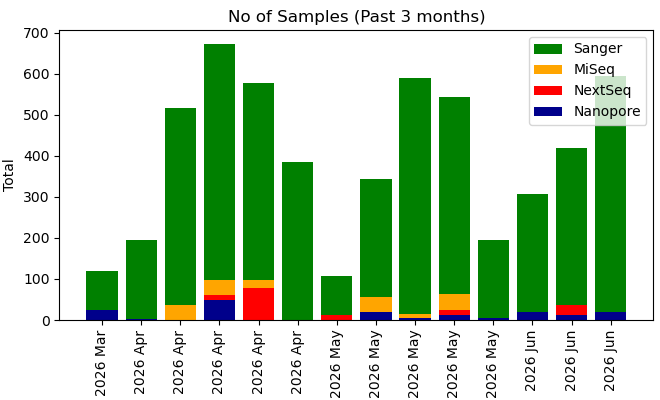
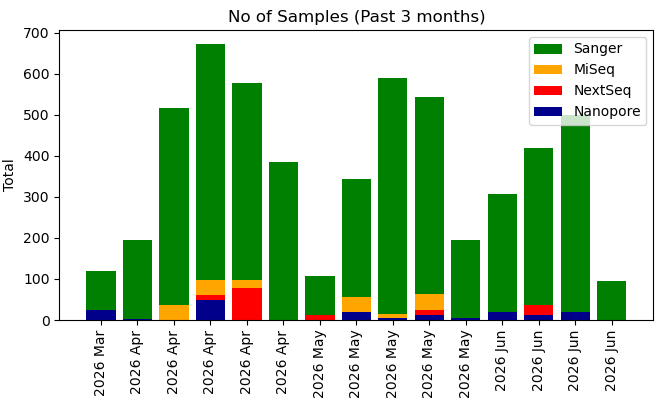
Your commit message here

Changed region(s): [[0.1212, 0.09, 0.9697, 1.0], [0.9091, 0.84, 0.9394, 0.99]]

diff --git a/krona/cgs.html b/krona/cgs.html
@@ -52,8 +52,8 @@ body {
   flex-direction: column;
 }
 </style>
-<H1>Genomics Facility Status: 07:00:11, 22/06/2026</H1>
-<marquee behavior="scroll" scrollamount="20" direction="left" bgcolor="lightgrey">ACATTAAATTTAACCTGACTATTCCACTGCAACAACTGAACGGACTGGAAACACTGGTCATAATCATGGTGGCGAATAAGTACGCGTTCTTGCAAATCACCAGAAGGCGGTTCCTGAATGAATGGGAAGCCTTCAAGAAGGTGATAAGCAGGAGAAACATACGAAGGCGCATAACGATACCACTGACCCTCAGCAATCTTAAACTTCTTAGACGAATCACCAGAACGGAAAACATCCTTCATAGAAATTTC</marquee>
+<H1>Genomics Facility Status: 07:00:13, 23/06/2026</H1>
+<marquee behavior="scroll" scrollamount="20" direction="left" bgcolor="lightgrey">AGAAAACCTACCGCGCTTCGCTTGGTCAACCCCTCAGCGGCAAAAATTAAAATTTTTACCGCTTCGGCGTTATAACCTCACACTCAATCTTTTATCACGAAGTCATGATTGAATCGCGAGTGGTCGGCAGATTGCGATAAACGGTCACATTAAATTTAACCTGACTATTCCACTGCAACAACTGAACGGACTGGAAACACTGGTCATAATCATGGTGGCGAATAAGTACGCGTTCTTGCAAATCACCAGA</marquee>
 <TABLE BORDER=0><TR><TD><TABLE class="styled-table"><H3>GigaBases Sequenced</H3>
-<TR><TD><b>Platform</b></TD><TD><b>Week</b></TD><TD><b>Month</b></TD><TD><b>Year</b></TD><TD><b>Total</b></TD></TR><TR><TD>Illumina MiSeq</TD><TD>0.0</TD><TD>0.0</TD><TD>341.6</TD><TD>567.8</TD></TR><TR><TD>Illumina NextSeq</TD><TD>0.0</TD><TD>143.68</TD><TD>3467.62</TD><TD>6797.43</TD></TR><TR><TD>Nanopore PromethION</TD><TD>342.47</TD><TD>1351.22</TD><TD>8907.77</TD><TD>13980.53</TD></TR><TR><TD>Sanger</TD><TD>0.0</TD><TD>0.0</TD><TD>0.02</TD><TD>0.05</TD></TR></TABLE></TD><TD><IMG SRC="fig1.png"><IMG SRC="fig2.png"></TD></TR><TR><TD><H3>No. Samples (No. Experiments)</H3>
-<TABLE class="styled-table"><TR><TD><b>Platform</b></TD><TD><b>Week</b></TD><TD><b>Month</b></TD><TD><b>Year</b></TD><TD><b>Total</b></TD></TR><TR><TD>Illumina MiSeq</TD><TD>0 (0)</TD><TD>0 (0)</TD><TD>1360 (69)</TD><TD>2514 (101)</TD></TR><TR><TD>Illumina NextSeq</TD><TD>0 (0)</TD><TD>24 (2)</TD><TD>1202 (56)</TD><TD>2222 (90)</TD></TR><TR><TD>Nanopore PromethION</TD><TD>20 (7)</TD><TD>66 (30)</TD><TD>639 (215)</TD><TD>1082 (380)</TD></TR><TR><TD>Sanger</TD><TD>576 (576)</TD><TD>1632 (1632)</TD><TD>21211 (21211)</TD><TD>47106 (47106)</TD></TR></TABLE></TD><TD><IMG SRC="fig4.png"></TD></TR></TABLE></HTML>
+<TR><TD><b>Platform</b></TD><TD><b>Week</b></TD><TD><b>Month</b></TD><TD><b>Year</b></TD><TD><b>Total</b></TD></TR><TR><TD>Illumina MiSeq</TD><TD>0.0</TD><TD>0.0</TD><TD>341.6</TD><TD>567.8</TD></TR><TR><TD>Illumina NextSeq</TD><TD>0.0</TD><TD>143.68</TD><TD>3467.62</TD><TD>6797.43</TD></TR><TR><TD>Nanopore PromethION</TD><TD>323.69</TD><TD>1351.22</TD><TD>8907.77</TD><TD>13980.53</TD></TR><TR><TD>Sanger</TD><TD>0.0</TD><TD>0.0</TD><TD>0.02</TD><TD>0.05</TD></TR></TABLE></TD><TD><IMG SRC="fig1.png"><IMG SRC="fig2.png"></TD></TR><TR><TD><H3>No. Samples (No. Experiments)</H3>
+<TABLE class="styled-table"><TR><TD><b>Platform</b></TD><TD><b>Week</b></TD><TD><b>Month</b></TD><TD><b>Year</b></TD><TD><b>Total</b></TD></TR><TR><TD>Illumina MiSeq</TD><TD>0 (0)</TD><TD>0 (0)</TD><TD>1360 (69)</TD><TD>2514 (101)</TD></TR><TR><TD>Illumina NextSeq</TD><TD>0 (0)</TD><TD>24 (1)</TD><TD>1202 (56)</TD><TD>2222 (90)</TD></TR><TR><TD>Nanopore PromethION</TD><TD>19 (6)</TD><TD>66 (30)</TD><TD>639 (215)</TD><TD>1082 (380)</TD></TR><TR><TD>Sanger</TD><TD>576 (576)</TD><TD>1536 (1536)</TD><TD>21211 (21211)</TD><TD>47106 (47106)</TD></TR></TABLE></TD><TD><IMG SRC="fig4.png"></TD></TR></TABLE></HTML>
